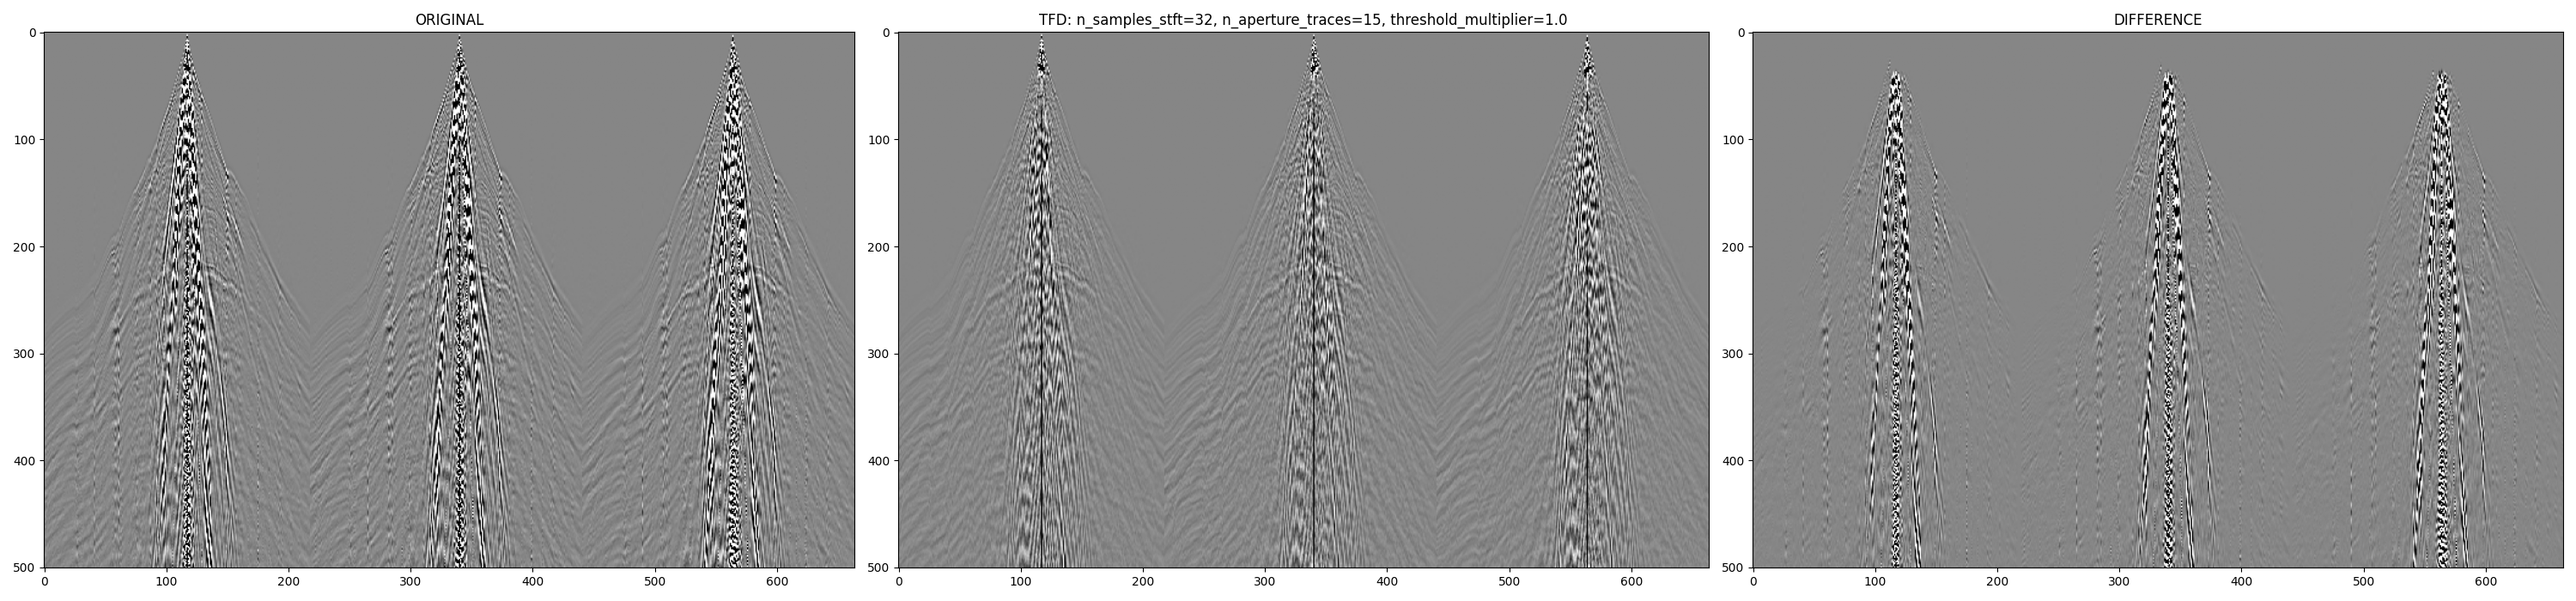
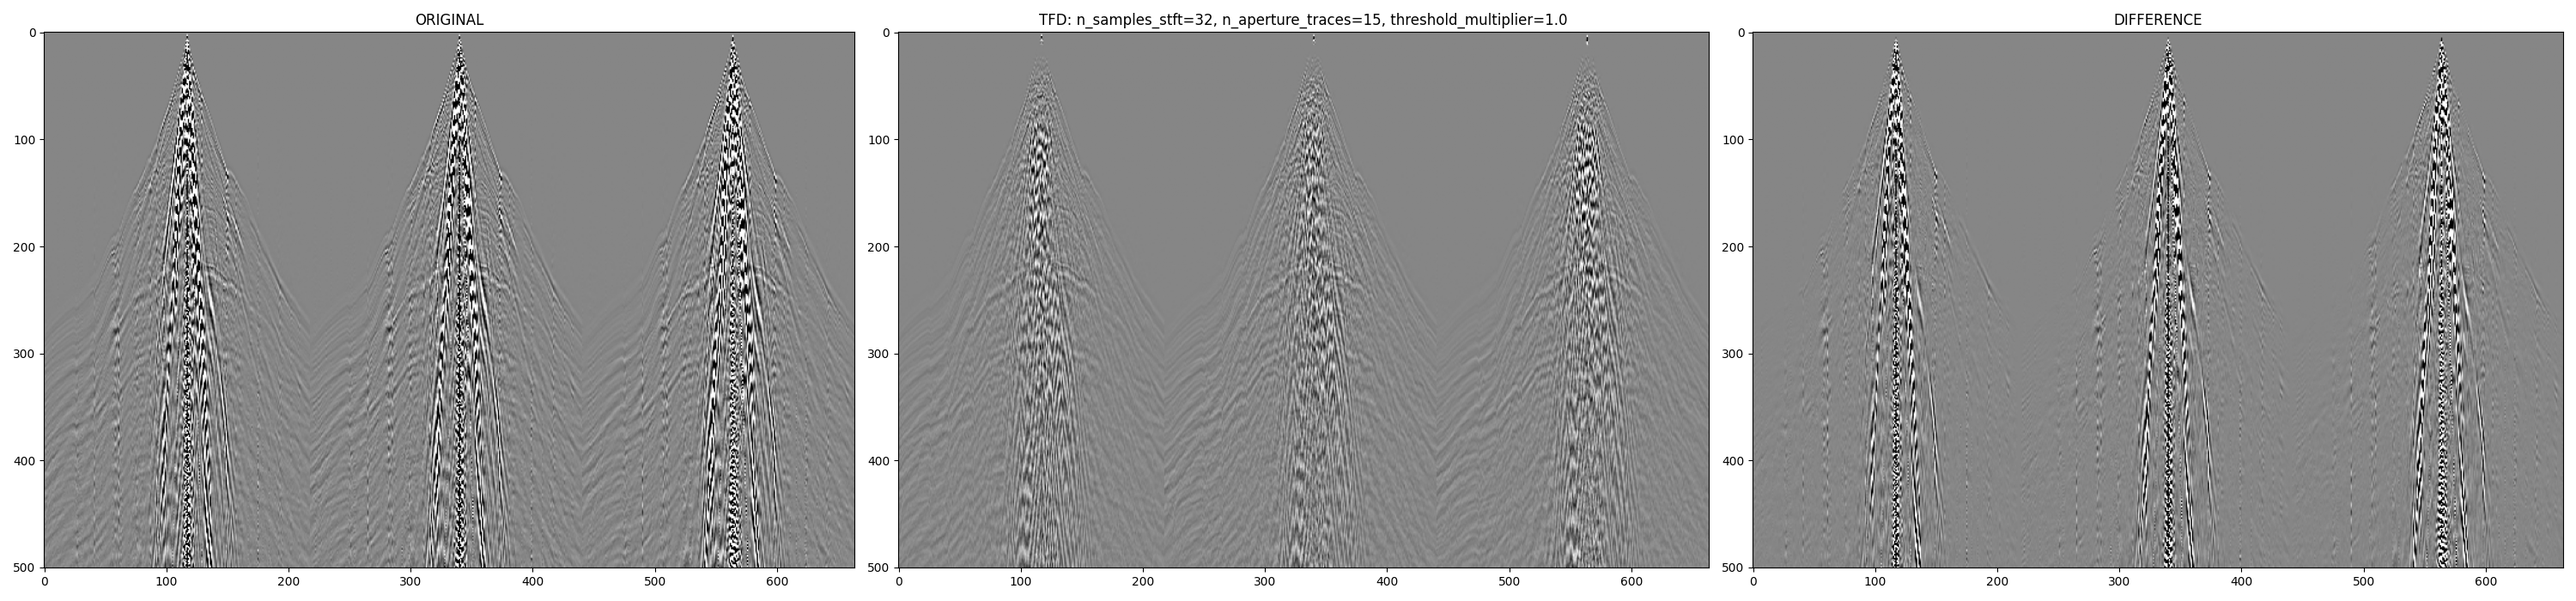
Removed DC saving

diff --git a/tfd.py b/tfd.py
@@ -47,10 +47,7 @@ def tfd_noise_rejection(data, n_samples_stft, trace_aperture, threshold_multipli
     stft_array = np.stack(stfts, axis=0)  # Shape (n_traces, n_freq, n_time)
     amplitudes = np.abs(stft_array)
     phases = np.angle(stft_array)
-
-    # Save the DC component
-    dc_component = amplitudes[:, 0:1, :].copy()
-    
+       
     # Global median for threshold
     median_per_freq = np.median(amplitudes, axis=0)
     global_median = np.median(median_per_freq)
@@ -81,9 +78,6 @@ def tfd_noise_rejection(data, n_samples_stft, trace_aperture, threshold_multipli
     median_filtered_amp = median_filter(amplitudes, 
                                       size=(2*trace_aperture+1, 1, 1),
                                       mode='nearest')
-
-    # Restore the DC component
-    median_filtered_amp[:, 0:1, :] = dc_component
     
     # Apply replacement based on the mask
     amplitudes[mask] = median_filtered_amp[mask]

diff --git a/tfdparams.py b/tfdparams.py
@@ -15,4 +15,4 @@ threshold_multiplier = 1.0
 # Start time points
 use_start_times = True
 offsets_sparse = [0, 3350, 5000]                   
-times_sparse  = [0.1, 0.9, 1.2]
+times_sparse  = [0.0, 0.9, 1.2]
